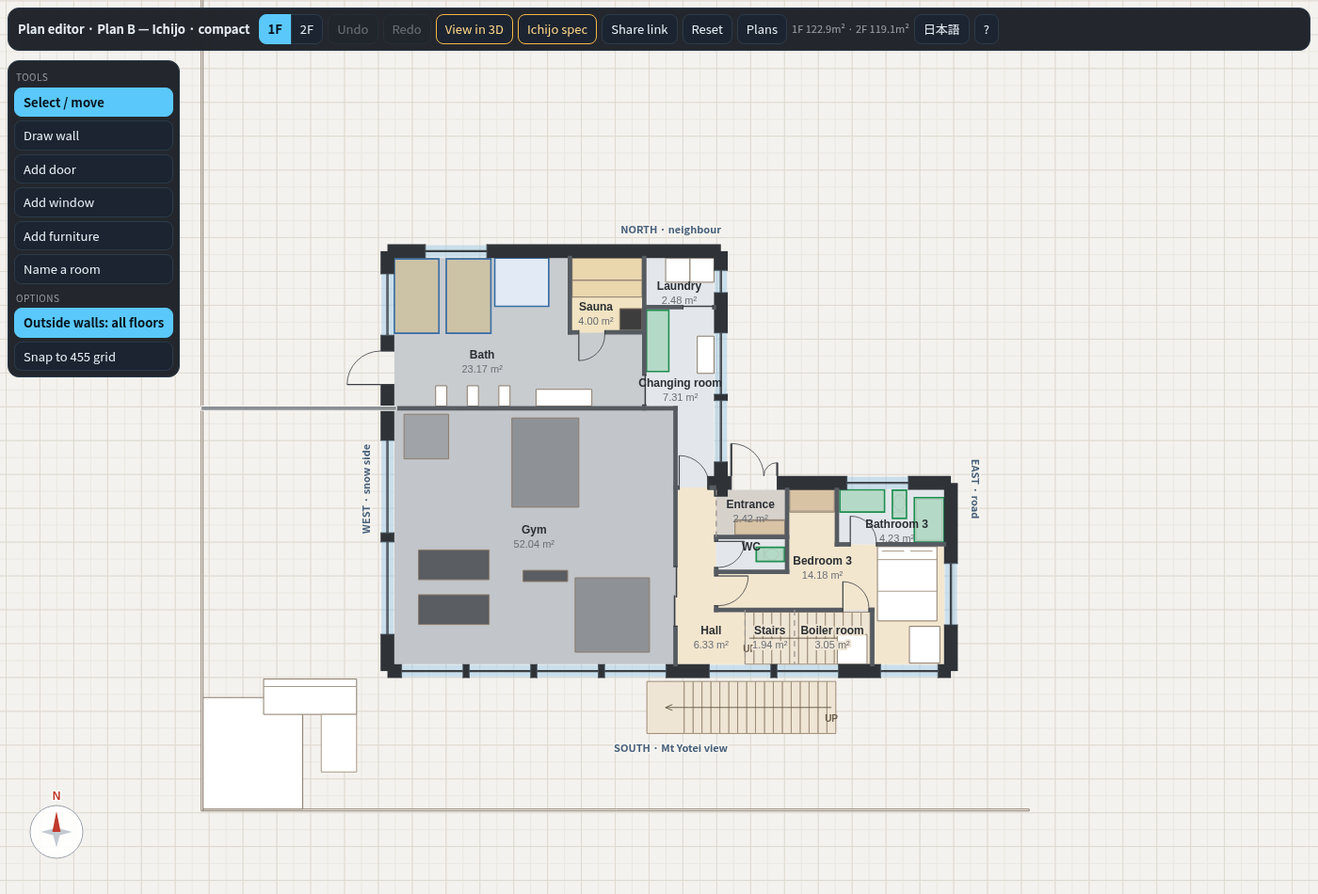
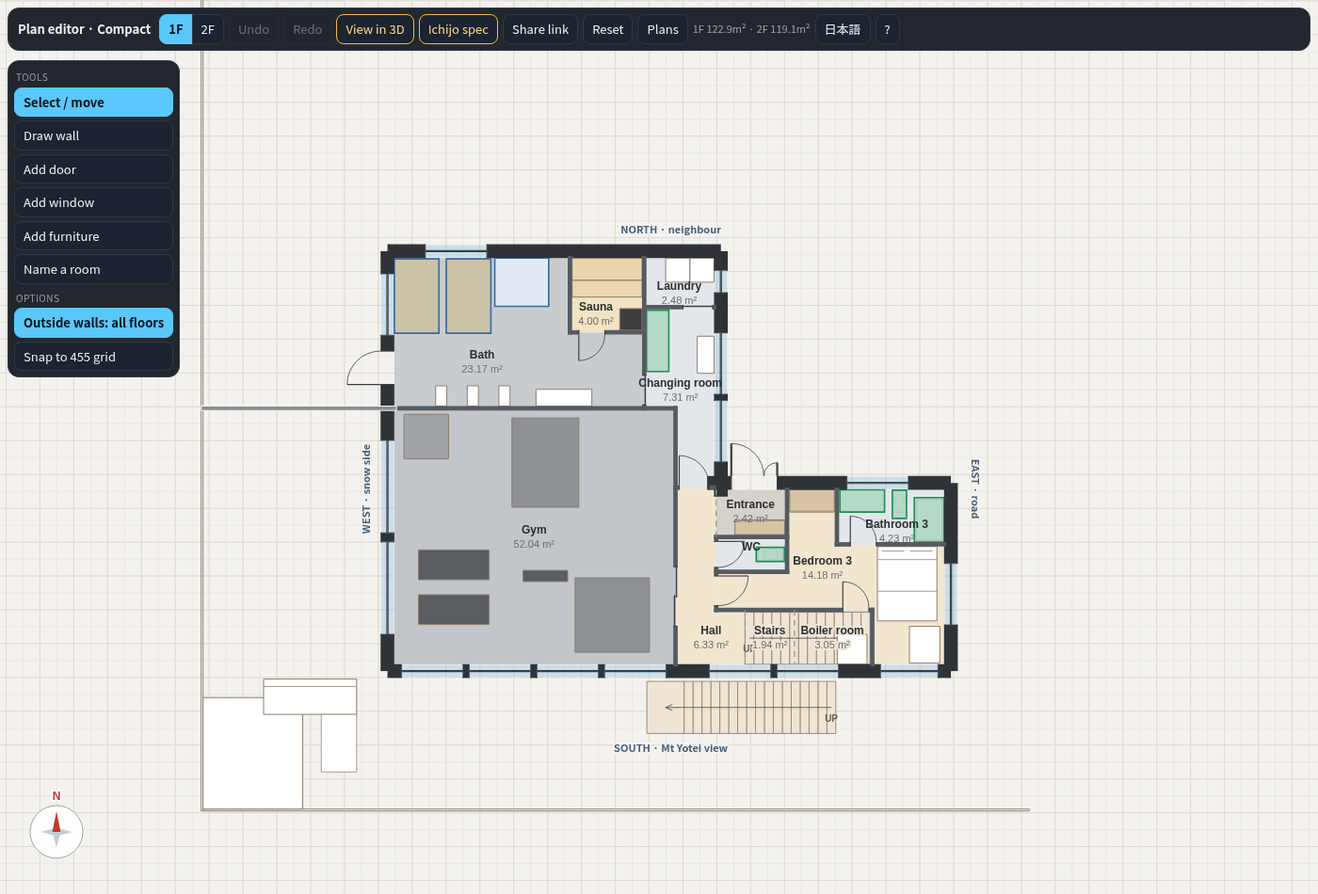
Rename plans (Compact / Full size); remove links between apps

Changed region(s): [[0.0921, 0.0, 0.6757, 0.0611], [0.7064, 0.0305, 0.7371, 0.0611]]

diff --git a/app.js b/app.js
@@ -1,8 +1,9 @@
-/* Kutchan house — interactive 3D walkthrough. ONE renderer, byte-identical in three apps:
-   the builder plans (kutchan-house-3d: houses 6, 5, 4), the Ichijo versions
-   (kutchan-house-ichijo: houses 9, 8) and Toby's own plans (kutchan-house-plan-a: Plan B =
-   house 2 in plan-b/; Plan A = house 1 is that app's older renderer at its root). The page's
-   <html data-houses="..."> lists its houses (the first = the default) and data-assets the
+/* Kutchan house — interactive 3D walkthrough. ONE renderer, byte-identical in three apps that
+   never link to each other (Toby 2026-10-13): kutchan-house-3d (house 4 = Budget plan,
+   5 = Mid tier plan, 6 = Ideal plan), kutchan-house-ichijo (8 = Compact, 9 = Full size) and
+   kutchan-house-plan-a (Plan B = house 2 in plan-b/; Plan A = house 1 is that app's older
+   renderer at its root). The page's <html data-houses="..."> lists its houses (the first = the
+   default; the switcher shows index.html's buttons in their own order) and data-assets the
    path prefix to assets/. Houses 4-9 are built from the editable ref-model-*.json plans
    through refplan.js, house 2 from plan2.json.
    Textures + HDRI + furniture models: Poly Haven (CC0); worktop marble and the
@@ -36,8 +37,8 @@ const SHIFT = 24 * Math.PI / 180;
 /* sun direction measured off the HDRI (brightest texel): az 36deg from +x
    towards +z, 28deg up. The directional light has to agree with the sky. */
 const SUN_DIR = new V(0.713, 0.473, 0.517).normalize();
-/* Which house. <html data-houses="6 5 4"> = this app's houses in switcher order, the first is
-   the default; ?house=N opens house N if this app has it, anything else opens the default.
+/* Which house. <html data-houses="6 5 4"> = this app's houses, the first is the default (the
+   switcher order is index.html's button order); ?house=N opens house N if this app has it, anything else opens the default.
    Houses that live in another app are sent there by index.html's head script before this
    module runs; it sets window.H3D_LEAVING so nothing is built while the browser leaves. */
 const _qHouse = new URLSearchParams(location.search).get('house');
@@ -81,10 +82,10 @@ const TXT = {
     title: '倶知安 住宅計画',
     h2: 'プランB', h2t: 'L字型の2階建て、2階は片流れ屋根', doc2: '倶知安 住宅計画 — トビアスの自作プラン — プランB',
     geo2: "プランB\n1階：玄関、階段ホール（北側出入口）、ジム、浴室（浴槽）、サウナ、洗面室、洗濯室、トイレ、機械室。\n2階：リビング、ダイニング、キッチン、寝室4室、バスルーム4室、廊下、外部階段への出入口。",
-    h4: "土屋 改案（予算重視案）", h4t: "10.9×7.3mの箱型2階建て＋ロフト",
-    h5: 'プランB 縮小版', h5t: "13.65×9.1mの箱型2階建て＋ロフト、長辺が眺望側",
-    origt5: 'プランB 縮小版の最初の間取りを表示（編集はそのまま残ります）',
-    h6: 'プランC', h6t: "L字型の2階建て。リビングの翼棟は3面に窓", origt6: 'プランCの最初の間取りを表示（編集はそのまま残ります）',
+    h4: '予算プラン', h4t: "10.9×7.3mの箱型2階建て＋ロフト",
+    h5: '中間プラン', h5t: "13.65×9.1mの箱型2階建て＋ロフト、長辺が眺望側",
+    origt5: '中間プランの最初の間取りを表示（編集はそのまま残ります）',
+    h6: '理想プラン', h6t: "L字型の2階建て。リビングの翼棟は3面に窓", origt6: '理想プランの最初の間取りを表示（編集はそのまま残ります）',
     edit: '間取りを編集', editt: '壁・扉・窓・家具を動かして間取りを変更（3Dにも反映されます）',
     srcEdited: '編集した間取り', srcLink: '共有リンクの間取り', origb: '元の図面を表示', origt: 'この間取りの最初の状態を表示（編集はそのまま残ります）', loft: 'ロフト',
     jumpt: '部屋へ移動', walk: '歩行', fly: '飛行', walkt: '歩行＝床の上を移動／飛行＝自由に移動',
@@ -101,10 +102,10 @@ const TXT = {
     fov: '画角', fovt: '画面の長辺方向の角度', speed: '速度', wide: '広角', narrow: '望遠', widet: '広角（90°）', narrowt: '望遠（50°）',
     hudOrbit: '周回', hudFly: '飛行', hudWalk: '歩行',
     loading: '建物を作成中…', loadingTex: (n, t) => 'テクスチャ・モデルを読み込み中… ' + n + ' / ' + t, failed: '読み込みに失敗しました：',
-    doc4: "土屋 改案（予算重視案） — 3Dウォークスルー", doc5: '倶知安 住宅計画 プランB 縮小版 — 3D', doc6: '倶知安 住宅計画 プランC — 3D',
-    geo6: "プランC\n1階：玄関、スキー/ギア室、ホール、ジム65.8m²、浴室24.8m²（ひのき浴槽2つ）とL字型のサウナ8.3m²、脱衣・休憩室、洗濯室、トイレ、機械室。\n2階：3面に窓のあるリビング、アイランドのあるダイニング・キッチン、主寝室（専用シャワー室・クローゼット付き）、寝室2（専用シャワー室付き）、寝室3、書斎2室、トイレ。",
-    geo5: "プランB 縮小版\n1階：玄関、スキー/ギア室、ホール、ジム62.1m²、浴室21.1m²（ひのき浴槽2つ）とサウナ5.0m²、脱衣・休憩室、洗濯室、トイレ、機械室。\n2階：リビング・ダイニング、アイランドのあるキッチン、主寝室と寝室2（それぞれ専用シャワー室・ウォークインクローゼット付き）、書斎2室、トイレ。\nロフト：寝室/書斎29.8m²（専用バスルーム・クローゼット付き）。",
-    geo4: "土屋 改案（予算重視案）\n1階：玄関、ジム43.0m²、浴室14.9m²（ひのき浴槽2つ）とサウナ5.0m²、脱衣・休憩室、洗濯室、トイレ、機械室。\n2階：LDK 44.0m²、主寝室（専用シャワー室付き）、書斎。\nロフト：寝室（専用シャワー室付き）、書斎。",
+    doc4: '倶知安 住宅計画 予算プラン — 3D', doc5: '倶知安 住宅計画 中間プラン — 3D', doc6: '倶知安 住宅計画 理想プラン — 3D',
+    geo6: "理想プラン\n1階：玄関、スキー/ギア室、ホール、ジム65.8m²、浴室24.8m²（ひのき浴槽2つ）とL字型のサウナ8.3m²、脱衣・休憩室、洗濯室、トイレ、機械室。\n2階：3面に窓のあるリビング、アイランドのあるダイニング・キッチン、主寝室（専用シャワー室・クローゼット付き）、寝室2（専用シャワー室付き）、寝室3、書斎2室、トイレ。",
+    geo5: "中間プラン\n1階：玄関、スキー/ギア室、ホール、ジム62.1m²、浴室21.1m²（ひのき浴槽2つ）とサウナ5.0m²、脱衣・休憩室、洗濯室、トイレ、機械室。\n2階：リビング・ダイニング、アイランドのあるキッチン、主寝室と寝室2（それぞれ専用シャワー室・ウォークインクローゼット付き）、書斎2室、トイレ。\nロフト：寝室/書斎29.8m²（専用バスルーム・クローゼット付き）。",
+    geo4: "予算プラン\n1階：玄関、ジム43.0m²、浴室14.9m²（ひのき浴槽2つ）とサウナ5.0m²、脱衣・休憩室、洗濯室、トイレ、機械室。\n2階：LDK 44.0m²、主寝室（専用シャワー室付き）、書斎。\nロフト：寝室（専用シャワー室付き）、書斎。",
     help: '<h3>操作方法</h3>'
       + '<b>キー</b> — <kbd>W</kbd><kbd>A</kbd><kbd>S</kbd><kbd>D</kbd> 前・左・後ろ・右へ移動 ・ <kbd>E</kbd>/<kbd>Q</kbd> 上の階・下の階へ（飛行モードでは上昇・下降） ・ <kbd>Shift</kbd> 走る<br>'
       + '<b>視点の向き</b> — <kbd>←</kbd><kbd>→</kbd><kbd>↑</kbd><kbd>↓</kbd>（または <kbd>J</kbd><kbd>L</kbd><kbd>I</kbd><kbd>K</kbd>）で左右・上下を見る<br>'
@@ -119,10 +120,10 @@ const TXT = {
     title: 'Kutchan house',
     h2: 'Plan B', h2t: 'L-shaped two-storey house, the 2F under one sloped roof', doc2: "Kutchan house — Toby's own plans — Plan B",
     geo2: "Plan B\n1F: entrance, stair hall with a north door, gym, bath with soaking tubs, sauna, wash room, laundry, WC, boiler room.\n2F: living, dining, kitchen, 4 bedrooms, 4 bathrooms, hall, door to the outside stair.",
-    h4: "Tsuchiya rev. — budget option", h4t: "10.9 × 7.3 m two-storey box with a loft",
-    h5: 'Plan B compact', h5t: "13.65 × 9.1 m two-storey box with a loft, long side facing the view",
-    origt5: 'Show Plan B compact as first drawn (your edits stay saved)',
-    h6: 'Plan C', h6t: "L-shaped two-storey house; the living wing has windows on three sides", origt6: 'Show Plan C as first drawn (your edits stay saved)',
+    h4: 'Budget plan', h4t: "10.9 × 7.3 m two-storey box with a loft",
+    h5: 'Mid tier plan', h5t: "13.65 × 9.1 m two-storey box with a loft, long side facing the view",
+    origt5: 'Show the Mid tier plan as first drawn (your edits stay saved)',
+    h6: 'Ideal plan', h6t: "L-shaped two-storey house; the living wing has windows on three sides", origt6: 'Show the Ideal plan as first drawn (your edits stay saved)',
     edit: 'Edit plan', editt: 'Move walls, doors, windows and furniture (the 3D follows)',
     srcEdited: 'Edited plan', srcLink: 'Shared plan', origb: 'Show original', origt: 'Show this plan as first drawn (your edits stay saved)', loft: 'Loft',
     jumpt: 'Jump to a room', walk: 'Walk', fly: 'Fly', walkt: 'Walk = stay on the floor. Fly = free movement',
@@ -139,10 +140,10 @@ const TXT = {
     fov: 'FIELD OF VIEW', fovt: "Measured across the screen's long side", speed: 'SPEED', wide: 'Wide', narrow: 'Narrow', widet: 'Wide angle (90°)', narrowt: 'Narrow / zoom (50°)',
     hudOrbit: 'orbit', hudFly: 'fly', hudWalk: 'walk',
     loading: 'building the house…', loadingTex: (n, t) => 'loading textures + models… ' + n + ' / ' + t, failed: 'failed to load: ',
-    doc4: "Tsuchiya rev. — budget option — 3D walkthrough", doc5: 'Kutchan house — Plan B compact — 3D', doc6: 'Kutchan house — Plan C — 3D',
-    geo6: "Plan C\n1F: entrance, ski / gear room, hall, gym 65.8 m², bath 24.8 m² (two hinoki tubs) with an 8.3 m² L-shaped sauna, changing + rest room, laundry, WC, boiler room.\n2F: living with windows on three sides, dining + kitchen with an island, master bedroom with an ensuite and a closet, bedroom 2 with an ensuite, bedroom 3, two dens, WC.",
-    geo5: "Plan B compact\n1F: entrance, ski / gear room, hall, gym 62.1 m², bath 21.1 m² (two hinoki tubs) with a 5.0 m² sauna, changing + rest room, laundry, WC, boiler room.\n2F: living + dining, kitchen with an island, master bedroom and bedroom 2, each with an ensuite and a walk-in closet, two dens, WC.\nLoft: bedroom / den 29.8 m² with its own bathroom and a closet.",
-    geo4: "Tsuchiya rev. — budget option\n1F: entrance, gym 43.0 m², bath 14.9 m² (two hinoki tubs) with a 5.0 m² sauna, changing + rest room, laundry, WC, boiler room.\n2F: living · dining · kitchen 44.0 m², master bedroom with an ensuite, den.\nLoft: bedroom with an ensuite, den.",
+    doc4: 'Kutchan house — Budget plan — 3D', doc5: 'Kutchan house — Mid tier plan — 3D', doc6: 'Kutchan house — Ideal plan — 3D',
+    geo6: "Ideal plan\n1F: entrance, ski / gear room, hall, gym 65.8 m², bath 24.8 m² (two hinoki tubs) with an 8.3 m² L-shaped sauna, changing + rest room, laundry, WC, boiler room.\n2F: living with windows on three sides, dining + kitchen with an island, master bedroom with an ensuite and a closet, bedroom 2 with an ensuite, bedroom 3, two dens, WC.",
+    geo5: "Mid tier plan\n1F: entrance, ski / gear room, hall, gym 62.1 m², bath 21.1 m² (two hinoki tubs) with a 5.0 m² sauna, changing + rest room, laundry, WC, boiler room.\n2F: living + dining, kitchen with an island, master bedroom and bedroom 2, each with an ensuite and a walk-in closet, two dens, WC.\nLoft: bedroom / den 29.8 m² with its own bathroom and a closet.",
+    geo4: "Budget plan\n1F: entrance, gym 43.0 m², bath 14.9 m² (two hinoki tubs) with a 5.0 m² sauna, changing + rest room, laundry, WC, boiler room.\n2F: living · dining · kitchen 44.0 m², master bedroom with an ensuite, den.\nLoft: bedroom with an ensuite, den.",
     help: '<h3>How to move</h3>'
       + '<b>Keys</b> — <kbd>W</kbd><kbd>A</kbd><kbd>S</kbd><kbd>D</kbd> walk forward / left / back / right · <kbd>E</kbd>/<kbd>Q</kbd> up / down a floor (in Fly: rise / sink) · <kbd>Shift</kbd> run<br>'
       + '<b>Pan the view</b> — <kbd>←</kbd><kbd>→</kbd><kbd>↑</kbd><kbd>↓</kbd> (or <kbd>J</kbd><kbd>L</kbd><kbd>I</kbd><kbd>K</kbd>) look left / right / up / down<br>'
@@ -157,23 +158,23 @@ const TXT = {
 /* the Ichijo houses (8, 9) */
 Object.assign(TXT.ja, {
   ich: '一条仕様', icht: '一条工務店の仕様とカタログの設備を選ぶパネル',
-  h8: 'プランB 一条版・コンパクト', h8t: "小さめのL字型の2階建て、リビング棟は片流れ屋根。寝室は2階に3室、1階に1室",
-  origt8: 'プランB 一条版・コンパクトの最初の間取りを表示（編集・選択はそのまま残ります）', doc8: '倶知安 住宅計画 プランB 一条版・コンパクト — 3D',
-  h9: 'プランB 一条版・寝室1つ下階', h9t: "L字型の2階建て、リビング棟は片流れ屋根",
-  origt9: 'プランB 一条版・寝室1つ下階の最初の間取りを表示（編集・選択はそのまま残ります）', doc9: '倶知安 住宅計画 プランB 一条版・寝室1つ下階 — 3D',
+  h8: 'コンパクト', h8t: "小さめのL字型の2階建て、リビング棟は片流れ屋根。寝室は2階に3室、1階に1室",
+  origt8: '「コンパクト」の最初の間取りを表示（編集・選択はそのまま残ります）', doc8: '倶知安 住宅計画 コンパクト — 3D',
+  h9: 'フルサイズ', h9t: "L字型の2階建て、リビング棟は片流れ屋根",
+  origt9: '「フルサイズ」の最初の間取りを表示（編集・選択はそのまま残ります）', doc9: '倶知安 住宅計画 フルサイズ — 3D',
   plans: '図面一覧', planst: 'すべての間取り図を1ページで',
-  geo8: "プランB 一条版・コンパクト\n1階：玄関、ホール、ジム52.0m²、浴室23.2m²（ひのき浴槽2つ）とサウナ4.0m²、脱衣室、洗濯室、トイレ、機械室、寝室3（14.2m²、専用バスルーム付き）。\n2階：勾配天井（最高4.75m）のリビング、ダイニング、キッチン、寝室1・2・4（11.2・11.5・13.0m²、それぞれ専用バスルーム付き、寝室2・4はウォークインクローゼット付き）。",
-  geo9: "プランB 一条版・寝室1つ下階\n1階：玄関、ホール、ジム52.1m²、浴室32.1m²（ひのき浴槽2つ）とサウナ5.5m²、脱衣・休憩室、洗濯室、トイレ、機械室、寝室3（18.4m²、ホールの向かいに専用シャワールーム）。\n2階：勾配天井（最高4.75m）のリビング、ダイニング、キッチン、寝室1・2・4（18.2・19.9・14.1m²、それぞれウォークインクローゼットと専用バスルーム付き）。",
+  geo8: "コンパクト\n1階：玄関、ホール、ジム52.0m²、浴室23.2m²（ひのき浴槽2つ）とサウナ4.0m²、脱衣室、洗濯室、トイレ、機械室、寝室3（14.2m²、専用バスルーム付き）。\n2階：勾配天井（最高4.75m）のリビング、ダイニング、キッチン、寝室1・2・4（11.2・11.5・13.0m²、それぞれ専用バスルーム付き、寝室2・4はウォークインクローゼット付き）。",
+  geo9: "フルサイズ\n1階：玄関、ホール、ジム52.1m²、浴室32.1m²（ひのき浴槽2つ）とサウナ5.5m²、脱衣・休憩室、洗濯室、トイレ、機械室、寝室3（18.4m²、ホールの向かいに専用シャワールーム）。\n2階：勾配天井（最高4.75m）のリビング、ダイニング、キッチン、寝室1・2・4（18.2・19.9・14.1m²、それぞれウォークインクローゼットと専用バスルーム付き）。",
 });
 Object.assign(TXT.en, {
   ich: 'Ichijo spec', icht: "Ichijo Komuten's rules and catalogue fittings",
-  h8: 'Plan B — Ichijo · compact', h8t: "Smaller L-shaped two-storey house with a sloped roof over the living wing; 3 bedrooms upstairs, 1 downstairs",
-  origt8: 'Show Plan B — Ichijo · compact as first drawn (your edits and choices stay saved)', doc8: 'Kutchan house — Plan B — Ichijo · compact — 3D',
-  h9: 'Plan B — Ichijo · 3 up, 1 down', h9t: "L-shaped two-storey house with a sloped roof over the living wing",
-  origt9: 'Show Plan B — Ichijo · 3 up, 1 down as first drawn (your edits and choices stay saved)', doc9: 'Kutchan house — Plan B — Ichijo · 3 up, 1 down — 3D',
+  h8: 'Compact', h8t: "Smaller L-shaped two-storey house with a sloped roof over the living wing; 3 bedrooms upstairs, 1 downstairs",
+  origt8: 'Show “Compact” as first drawn (your edits and choices stay saved)', doc8: 'Kutchan house — Compact — 3D',
+  h9: 'Full size', h9t: "L-shaped two-storey house with a sloped roof over the living wing",
+  origt9: 'Show “Full size” as first drawn (your edits and choices stay saved)', doc9: 'Kutchan house — Full size — 3D',
   plans: 'Plans', planst: 'All floor plans on one page',
-  geo8: "Plan B — Ichijo · compact\n1F: entrance, hall, gym 52.0 m², bath 23.2 m² (two hinoki tubs) with a 4.0 m² sauna, changing room, laundry, WC, boiler room, bedroom 3 (14.2 m²) with its own bathroom.\n2F: living with a sloped ceiling up to 4.75 m, dining, kitchen, bedrooms 1, 2 and 4 (11.2, 11.5 and 13.0 m²), each with its own bathroom; walk-in closets for bedrooms 2 and 4.",
-  geo9: "Plan B — Ichijo · 3 up, 1 down\n1F: entrance, hall, gym 52.1 m², bath 32.1 m² (two hinoki tubs) with a 5.5 m² sauna, changing + rest room, laundry, WC, boiler room, bedroom 3 (18.4 m²) with its own shower room across the hall.\n2F: living with a sloped ceiling up to 4.75 m, dining, kitchen, bedrooms 1, 2 and 4 (18.2, 19.9 and 14.1 m²), each with a walk-in closet and its own bathroom.",
+  geo8: "Compact\n1F: entrance, hall, gym 52.0 m², bath 23.2 m² (two hinoki tubs) with a 4.0 m² sauna, changing room, laundry, WC, boiler room, bedroom 3 (14.2 m²) with its own bathroom.\n2F: living with a sloped ceiling up to 4.75 m, dining, kitchen, bedrooms 1, 2 and 4 (11.2, 11.5 and 13.0 m²), each with its own bathroom; walk-in closets for bedrooms 2 and 4.",
+  geo9: "Full size\n1F: entrance, hall, gym 52.1 m², bath 32.1 m² (two hinoki tubs) with a 5.5 m² sauna, changing + rest room, laundry, WC, boiler room, bedroom 3 (18.4 m²) with its own shower room across the hall.\n2F: living with a sloped ceiling up to 4.75 m, dining, kitchen, bedrooms 1, 2 and 4 (18.2, 19.9 and 14.1 m²), each with a walk-in closet and its own bathroom.",
 });
 const T = (k) => (TXT[LANG][k] !== undefined ? TXT[LANG][k] : TXT.en[k]);
 /* preset + room-label names: English is the key (goView tests 'Doll'), Japanese looked up */

diff --git a/edit.js b/edit.js
@@ -1,15 +1,15 @@
 /* Plan editor for the ref-model plans (the refplan.js format). Drag walls,
    doors, windows and furniture; the 3D walkthrough builds from the same model,
    saved in this browser or carried in a share link (#m=...).
-   ?plan=b = the revised Tsuchiya plan (ref-model-b.json, 3D: index.html?house=4),
-   ?plan=c = Plan B compact (ref-model-c.json, 3D: index.html?house=5) and
-   ?plan=d = Plan C, L-shaped (ref-model-d.json, 3D: index.html?house=6), each
-   saved under its own key. ?plan=f = Plan B — Ichijo · compact (house 8) and
-   ?plan=g = Plan B — Ichijo · 3 up, 1 down (house 9): PLANS[x].ichijo =
-   the Ichijo spec panel + catalogue fittings (ichijo.js).
-   This file is byte-identical in two apps: kutchan-house-3d (<html data-plans="d c b">) and
-   kutchan-house-ichijo (data-plans="g f"); the first plan listed is the default, any other
-   ?plan opens it (edit.html's head script sends plans that live in the other app there).
+   ?plan=b = Budget plan (ref-model-b.json, 3D: index.html?house=4),
+   ?plan=c = Mid tier plan (ref-model-c.json, 3D: index.html?house=5) and
+   ?plan=d = Ideal plan, L-shaped (ref-model-d.json, 3D: index.html?house=6), each
+   saved under its own key. ?plan=f = Compact (house 8) and ?plan=g = Full size (house 9):
+   PLANS[x].ichijo = the Ichijo spec panel + catalogue fittings (ichijo.js).
+   This file is byte-identical in two apps that never link to each other: kutchan-house-3d
+   (<html data-plans="d c b">) and kutchan-house-ichijo (data-plans="g f"); the first plan
+   listed is the default, any other ?plan opens it (edit.html's head script invisibly sends old
+   links to plans that live in the other app there).
    v20: a model's "carport" (plan d, outside the house) is drawn on the 1F as a
    dashed outline with its posts, and counted in the fit-to-screen.
    v21: a compass on every plan (rose in a corner + the four sides of the drawing
@@ -34,7 +34,7 @@ const _qPlan = (new URLSearchParams(location.search).get('plan') || '').toLowerC
 const PLAN = APP_PLANS.includes(_qPlan) ? _qPlan : APP_PLANS[0];
 const REF = PLANS[PLAN];
 try { localStorage.removeItem('h3dRefModel'); } catch (e) { /* private mode */ }   /* v23: plan a's saved copy */
-const PE = !!REF.ichijo;            /* plans f, g = the Plan B — Ichijo variants: the Ichijo spec panel + catalogue fittings (ichijo.js) */
+const PE = !!REF.ichijo;            /* plans f, g (Compact, Full size): the Ichijo spec panel + catalogue fittings (ichijo.js) */
 
 /* ------------------------------------------------------------------ text */
 const TX = {
@@ -145,46 +145,46 @@ function planHelp(lang, reset, desc, twoFloors) {
 const FIN = { en: { fGranite: 'Dark stone (bath)', fHinoki: 'Hinoki (sauna)', fRubber: 'Rubber (gym)' }, ja: { fGranite: '黒い石調タイル（浴室）', fHinoki: 'ひのき（サウナ）', fRubber: 'ゴム床（ジム）' } };
 const ICHS = { en: { ich: 'Ichijo spec', icht: "Ichijo Komuten's rules and catalogue fittings" }, ja: { ich: '一条仕様', icht: '一条工務店の仕様とカタログの設備' } };
 const DESC = {
-  b: { en: "Tsuchiya rev. — budget option<br>1F: entrance, gym 43.0 m², bath 14.9 m² (two hinoki tubs) with a 5.0 m² sauna, changing + rest room, laundry, WC, boiler room.<br>2F: living · dining · kitchen 44.0 m², master bedroom with an ensuite, den.<br>Loft: bedroom with an ensuite, den.",
-    ja: "土屋 改案（予算重視案）<br>1階：玄関、ジム43.0m²、浴室14.9m²（ひのき浴槽2つ）とサウナ5.0m²、脱衣・休憩室、洗濯室、トイレ、機械室。<br>2階：LDK 44.0m²、主寝室（専用シャワー室付き）、書斎。<br>ロフト：寝室（専用シャワー室付き）、書斎。" },
-  c: { en: "Plan B compact<br>1F: entrance, ski / gear room, hall, gym 62.1 m², bath 21.1 m² (two hinoki tubs) with a 5.0 m² sauna, changing + rest room, laundry, WC, boiler room.<br>2F: living + dining, kitchen with an island, master bedroom and bedroom 2, each with an ensuite and a walk-in closet, two dens, WC.<br>Loft: bedroom / den 29.8 m² with its own bathroom and a closet.",
-    ja: "プランB 縮小版<br>1階：玄関、スキー/ギア室、ホール、ジム62.1m²、浴室21.1m²（ひのき浴槽2つ）とサウナ5.0m²、脱衣・休憩室、洗濯室、トイレ、機械室。<br>2階：リビング・ダイニング、アイランドのあるキッチン、主寝室と寝室2（それぞれ専用シャワー室・ウォークインクローゼット付き）、書斎2室、トイレ。<br>ロフト：寝室/書斎29.8m²（専用バスルーム・クローゼット付き）。" },
-  d: { en: "Plan C<br>1F: entrance, ski / gear room, hall, gym 65.8 m², bath 24.8 m² (two hinoki tubs) with an 8.3 m² L-shaped sauna, changing + rest room, laundry, WC, boiler room.<br>2F: living with windows on three sides, dining + kitchen with an island, master bedroom with an ensuite and a closet, bedroom 2 with an ensuite, bedroom 3, two dens, WC.",
-    ja: "プランC<br>1階：玄関、スキー/ギア室、ホール、ジム65.8m²、浴室24.8m²（ひのき浴槽2つ）とL字型のサウナ8.3m²、脱衣・休憩室、洗濯室、トイレ、機械室。<br>2階：3面に窓のあるリビング、アイランドのあるダイニング・キッチン、主寝室（専用シャワー室・クローゼット付き）、寝室2（専用シャワー室付き）、寝室3、書斎2室、トイレ。" },
-  f: { en: "Plan B — Ichijo · compact<br>1F: entrance, hall, gym 52.0 m², bath 23.2 m² (two hinoki tubs) with a 4.0 m² sauna, changing room, laundry, WC, boiler room, bedroom 3 (14.2 m²) with its own bathroom.<br>2F: living with a sloped ceiling up to 4.75 m, dining, kitchen, bedrooms 1, 2 and 4 (11.2, 11.5 and 13.0 m²), each with its own bathroom; walk-in closets for bedrooms 2 and 4.",
-    ja: "プランB 一条版・コンパクト<br>1階：玄関、ホール、ジム52.0m²、浴室23.2m²（ひのき浴槽2つ）とサウナ4.0m²、脱衣室、洗濯室、トイレ、機械室、寝室3（14.2m²、専用バスルーム付き）。<br>2階：勾配天井（最高4.75m）のリビング、ダイニング、キッチン、寝室1・2・4（11.2・11.5・13.0m²、それぞれ専用バスルーム付き、寝室2・4はウォークインクローゼット付き）。" },
-  g: { en: "Plan B — Ichijo · 3 up, 1 down<br>1F: entrance, hall, gym 52.1 m², bath 32.1 m² (two hinoki tubs) with a 5.5 m² sauna, changing + rest room, laundry, WC, boiler room, bedroom 3 (18.4 m²) with its own shower room across the hall.<br>2F: living with a sloped ceiling up to 4.75 m, dining, kitchen, bedrooms 1, 2 and 4 (18.2, 19.9 and 14.1 m²), each with a walk-in closet and its own bathroom.",
-    ja: "プランB 一条版・寝室1つ下階<br>1階：玄関、ホール、ジム52.1m²、浴室32.1m²（ひのき浴槽2つ）とサウナ5.5m²、脱衣・休憩室、洗濯室、トイレ、機械室、寝室3（18.4m²、ホールの向かいに専用シャワールーム）。<br>2階：勾配天井（最高4.75m）のリビング、ダイニング、キッチン、寝室1・2・4（18.2・19.9・14.1m²、それぞれウォークインクローゼットと専用バスルーム付き）。" },
+  b: { en: "Budget plan<br>1F: entrance, gym 43.0 m², bath 14.9 m² (two hinoki tubs) with a 5.0 m² sauna, changing + rest room, laundry, WC, boiler room.<br>2F: living · dining · kitchen 44.0 m², master bedroom with an ensuite, den.<br>Loft: bedroom with an ensuite, den.",
+    ja: "予算プラン<br>1階：玄関、ジム43.0m²、浴室14.9m²（ひのき浴槽2つ）とサウナ5.0m²、脱衣・休憩室、洗濯室、トイレ、機械室。<br>2階：LDK 44.0m²、主寝室（専用シャワー室付き）、書斎。<br>ロフト：寝室（専用シャワー室付き）、書斎。" },
+  c: { en: "Mid tier plan<br>1F: entrance, ski / gear room, hall, gym 62.1 m², bath 21.1 m² (two hinoki tubs) with a 5.0 m² sauna, changing + rest room, laundry, WC, boiler room.<br>2F: living + dining, kitchen with an island, master bedroom and bedroom 2, each with an ensuite and a walk-in closet, two dens, WC.<br>Loft: bedroom / den 29.8 m² with its own bathroom and a closet.",
+    ja: "中間プラン<br>1階：玄関、スキー/ギア室、ホール、ジム62.1m²、浴室21.1m²（ひのき浴槽2つ）とサウナ5.0m²、脱衣・休憩室、洗濯室、トイレ、機械室。<br>2階：リビング・ダイニング、アイランドのあるキッチン、主寝室と寝室2（それぞれ専用シャワー室・ウォークインクローゼット付き）、書斎2室、トイレ。<br>ロフト：寝室/書斎29.8m²（専用バスルーム・クローゼット付き）。" },
+  d: { en: "Ideal plan<br>1F: entrance, ski / gear room, hall, gym 65.8 m², bath 24.8 m² (two hinoki tubs) with an 8.3 m² L-shaped sauna, changing + rest room, laundry, WC, boiler room.<br>2F: living with windows on three sides, dining + kitchen with an island, master bedroom with an ensuite and a closet, bedroom 2 with an ensuite, bedroom 3, two dens, WC.",
+    ja: "理想プラン<br>1階：玄関、スキー/ギア室、ホール、ジム65.8m²、浴室24.8m²（ひのき浴槽2つ）とL字型のサウナ8.3m²、脱衣・休憩室、洗濯室、トイレ、機械室。<br>2階：3面に窓のあるリビング、アイランドのあるダイニング・キッチン、主寝室（専用シャワー室・クローゼット付き）、寝室2（専用シャワー室付き）、寝室3、書斎2室、トイレ。" },
+  f: { en: "Compact<br>1F: entrance, hall, gym 52.0 m², bath 23.2 m² (two hinoki tubs) with a 4.0 m² sauna, changing room, laundry, WC, boiler room, bedroom 3 (14.2 m²) with its own bathroom.<br>2F: living with a sloped ceiling up to 4.75 m, dining, kitchen, bedrooms 1, 2 and 4 (11.2, 11.5 and 13.0 m²), each with its own bathroom; walk-in closets for bedrooms 2 and 4.",
+    ja: "コンパクト<br>1階：玄関、ホール、ジム52.0m²、浴室23.2m²（ひのき浴槽2つ）とサウナ4.0m²、脱衣室、洗濯室、トイレ、機械室、寝室3（14.2m²、専用バスルーム付き）。<br>2階：勾配天井（最高4.75m）のリビング、ダイニング、キッチン、寝室1・2・4（11.2・11.5・13.0m²、それぞれ専用バスルーム付き、寝室2・4はウォークインクローゼット付き）。" },
+  g: { en: "Full size<br>1F: entrance, hall, gym 52.1 m², bath 32.1 m² (two hinoki tubs) with a 5.5 m² sauna, changing + rest room, laundry, WC, boiler room, bedroom 3 (18.4 m²) with its own shower room across the hall.<br>2F: living with a sloped ceiling up to 4.75 m, dining, kitchen, bedrooms 1, 2 and 4 (18.2, 19.9 and 14.1 m²), each with a walk-in closet and its own bathroom.",
+    ja: "フルサイズ<br>1階：玄関、ホール、ジム52.1m²、浴室32.1m²（ひのき浴槽2つ）とサウナ5.5m²、脱衣・休憩室、洗濯室、トイレ、機械室、寝室3（18.4m²、ホールの向かいに専用シャワールーム）。<br>2階：勾配天井（最高4.75m）のリビング、ダイニング、キッチン、寝室1・2・4（18.2・19.9・14.1m²、それぞれウォークインクローゼットと専用バスルーム付き）。" },
 };
 const TXB = {
-  en: Object.assign({ title: "Plan editor · Tsuchiya rev. — budget option", resetQ: "Throw away your changes and go back to the revised plan as first drawn?",
-    help: planHelp('en', "<b>Reset</b> goes back to the revised plan as first drawn.", DESC.b.en, false) }, FIN.en),
-  ja: Object.assign({ title: "間取り編集・土屋 改案（予算重視案）", resetQ: "変更をすべて破棄して、改案の最初の間取りに戻しますか？",
-    help: planHelp('ja', "<b>元の図面に戻す</b>で改案の最初の間取りに戻ります。", DESC.b.ja, false) }, FIN.ja),
+  en: Object.assign({ title: "Plan editor · Budget plan", resetQ: "Throw away your changes and go back to the Budget plan as first drawn?",
+    help: planHelp('en', "<b>Reset</b> goes back to the Budget plan as first drawn.", DESC.b.en, false) }, FIN.en),
+  ja: Object.assign({ title: "間取り編集・予算プラン", resetQ: "変更をすべて破棄して、予算プランの最初の間取りに戻しますか？",
+    help: planHelp('ja', "<b>元の図面に戻す</b>で予算プランの最初の間取りに戻ります。", DESC.b.ja, false) }, FIN.ja),
 };
 const TXC = {
-  en: Object.assign({ title: "Plan editor · Plan B compact", resetQ: "Throw away your changes and go back to Plan B compact as first drawn?",
-    help: planHelp('en', "<b>Reset</b> goes back to Plan B compact as first drawn.", DESC.c.en, false) }, FIN.en),
-  ja: Object.assign({ title: "間取り編集・プランB 縮小版", resetQ: "変更をすべて破棄して、プランB 縮小版の最初の間取りに戻しますか？",
-    help: planHelp('ja', "<b>元の図面に戻す</b>でプランB 縮小版の最初の間取りに戻ります。", DESC.c.ja, false) }, FIN.ja),
+  en: Object.assign({ title: "Plan editor · Mid tier plan", resetQ: "Throw away your changes and go back to the Mid tier plan as first drawn?",
+    help: planHelp('en', "<b>Reset</b> goes back to the Mid tier plan as first drawn.", DESC.c.en, false) }, FIN.en),
+  ja: Object.assign({ title: "間取り編集・中間プラン", resetQ: "変更をすべて破棄して、中間プランの最初の間取りに戻しますか？",
+    help: planHelp('ja', "<b>元の図面に戻す</b>で中間プランの最初の間取りに戻ります。", DESC.c.ja, false) }, FIN.ja),
 };
 const TXD = {
-  en: Object.assign({ title: "Plan editor · Plan C", resetQ: "Throw away your changes and go back to Plan C as first drawn?",
-    help: planHelp('en', "<b>Reset</b> goes back to Plan C as first drawn.", DESC.d.en, true) }, FIN.en),
-  ja: Object.assign({ title: "間取り編集・プランC", resetQ: "変更をすべて破棄して、プランCの最初の間取りに戻しますか？",
-    help: planHelp('ja', "<b>元の図面に戻す</b>でプランCの最初の間取りに戻ります。", DESC.d.ja, true) }, FIN.ja),
+  en: Object.assign({ title: "Plan editor · Ideal plan", resetQ: "Throw away your changes and go back to the Ideal plan as first drawn?",
+    help: planHelp('en', "<b>Reset</b> goes back to the Ideal plan as first drawn.", DESC.d.en, true) }, FIN.en),
+  ja: Object.assign({ title: "間取り編集・理想プラン", resetQ: "変更をすべて破棄して、理想プランの最初の間取りに戻しますか？",
+    help: planHelp('ja', "<b>元の図面に戻す</b>で理想プランの最初の間取りに戻ります。", DESC.d.ja, true) }, FIN.ja),
 };
 const TXF = {
-  en: Object.assign({ title: "Plan editor · Plan B — Ichijo · compact", resetQ: "Throw away your changes (walls and catalogue choices) and go back to Plan B — Ichijo · compact as first drawn?",
-    help: planHelp('en', "<b>Reset</b> goes back to Plan B — Ichijo · compact as first drawn.", DESC.f.en, true) }, FIN.en, ICHS.en),
-  ja: Object.assign({ title: "間取り編集・プランB 一条版・コンパクト", resetQ: "変更（壁・設備の選択）をすべて破棄して、プランB 一条版・コンパクトの最初の間取りに戻しますか？",
-    help: planHelp('ja', "<b>元の図面に戻す</b>でプランB 一条版・コンパクトの最初の間取りに戻ります。", DESC.f.ja, true) }, FIN.ja, ICHS.ja),
+  en: Object.assign({ title: "Plan editor · Compact", resetQ: "Throw away your changes (walls and catalogue choices) and go back to “Compact” as first drawn?",
+    help: planHelp('en', "<b>Reset</b> goes back to “Compact” as first drawn.", DESC.f.en, true) }, FIN.en, ICHS.en),
+  ja: Object.assign({ title: "間取り編集・コンパクト", resetQ: "変更（壁・設備の選択）をすべて破棄して、「コンパクト」の最初の間取りに戻しますか？",
+    help: planHelp('ja', "<b>元の図面に戻す</b>で「コンパクト」の最初の間取りに戻ります。", DESC.f.ja, true) }, FIN.ja, ICHS.ja),
 };
 const TXG = {
-  en: Object.assign({ title: "Plan editor · Plan B — Ichijo · 3 up, 1 down", resetQ: "Throw away your changes (walls and catalogue choices) and go back to Plan B — Ichijo · 3 up, 1 down as first drawn?",
-    help: planHelp('en', "<b>Reset</b> goes back to Plan B — Ichijo · 3 up, 1 down as first drawn.", DESC.g.en, true) }, FIN.en, ICHS.en),
-  ja: Object.assign({ title: "間取り編集・プランB 一条版・寝室1つ下階", resetQ: "変更（壁・設備の選択）をすべて破棄して、プランB 一条版・寝室1つ下階の最初の間取りに戻しますか？",
-    help: planHelp('ja', "<b>元の図面に戻す</b>でプランB 一条版・寝室1つ下階の最初の間取りに戻ります。", DESC.g.ja, true) }, FIN.ja, ICHS.ja),
+  en: Object.assign({ title: "Plan editor · Full size", resetQ: "Throw away your changes (walls and catalogue choices) and go back to “Full size” as first drawn?",
+    help: planHelp('en', "<b>Reset</b> goes back to “Full size” as first drawn.", DESC.g.en, true) }, FIN.en, ICHS.en),
+  ja: Object.assign({ title: "間取り編集・フルサイズ", resetQ: "変更（壁・設備の選択）をすべて破棄して、「フルサイズ」の最初の間取りに戻しますか？",
+    help: planHelp('ja', "<b>元の図面に戻す</b>で「フルサイズ」の最初の間取りに戻ります。", DESC.g.ja, true) }, FIN.ja, ICHS.ja),
 };
 const TXP = { b: TXB, c: TXC, d: TXD, f: TXF, g: TXG };
 let LANG = new URLSearchParams(location.search).get('lang') || localStorage.getItem('h3dEditLang') || 'en';

diff --git a/plans.html b/plans.html
@@ -19,10 +19,6 @@
   .lang button:first-child{border-radius:8px 0 0 8px;margin-left:0}
   .lang button:last-child{border-radius:0 8px 8px 0}
   .lang button.on{background:#5ac8fa;color:#04121c;border-color:#5ac8fa;font-weight:700}
-  .apps{margin-top:8px;font-size:13px;color:#9fb0c0}
-  .apps a{color:#5ac8fa;text-decoration:none}
-  .apps a:hover{text-decoration:underline}
-  .apps b{color:#e8eef5;font-weight:600}
   main{max-width:1500px;margin:0 auto;padding:6px 16px 40px}
   section{background:#fff;border:1px solid var(--bd);border-radius:12px;margin:18px 0;padding:16px 18px}
   h2{margin:0;font-size:19px}
@@ -45,29 +41,10 @@
 <header>
   <div class="bar"><h1><span class="en">Kutchan house — Ichijo versions</span><span class="ja" lang="ja">倶知安 住宅計画 — 一条工務店版</span></h1>
   <span class="lang"><button type="button" data-l="en">EN</button><button type="button" data-l="ja">日本語</button></span></div>
-  <div class="apps"><a href="https://boinkyai.github.io/kutchan-house-3d/plans.html"><span class="en">Builder plans</span><span class="ja" lang="ja">建築会社向けプラン</span></a> · <b><span class="en">Ichijo versions</span><span class="ja" lang="ja">一条工務店版</span></b> · <a href="https://boinkyai.github.io/kutchan-house-plan-a/"><span class="en">Toby's own plans</span><span class="ja" lang="ja">トビアスの自作プラン</span></a></div>
 </header>
 <main>
-<section id="plan-g">
-  <h2><span class="en">Plan B — Ichijo · 3 up, 1 down</span><span class="ja" lang="ja">プランB 一条版・寝室1つ下階</span></h2>
-  <p class="what"><span class="en">L-shaped two-storey house with a sloped roof over the living wing.</span><span class="ja" lang="ja">L字型の2階建て、リビング棟は片流れ屋根。</span></p>
-  <div class="links"><a href="index.html?house=9">3D</a><a href="edit.html?plan=g"><span class="en">Edit plan</span><span class="ja" lang="ja">間取りを編集</span></a></div>
-  <dl>
-    <dt><span class="en">Floor area</span><span class="ja" lang="ja">延床面積</span></dt><dd><span class="en">289 m² ≈ 87 tsubo</span><span class="ja" lang="ja">289 m²（約87坪）</span><br><small><span class="en">1F 146.4 · 2F 142.5 m²</span><span class="ja" lang="ja">1階 146.4・2階 142.5 m²</span></small></dd>
-    <dt><span class="en">Bedrooms</span><span class="ja" lang="ja">寝室</span></dt><dd><span class="en">4, each with its own bathroom</span><span class="ja" lang="ja">4室（すべて専用バスルーム付き）</span></dd>
-    <dt><span class="en">Gym</span><span class="ja" lang="ja">ジム</span></dt><dd><span class="en">52.1 m²</span><span class="ja" lang="ja">52.1 m²</span></dd>
-    <dt><span class="en">Bath + sauna</span><span class="ja" lang="ja">浴室＋サウナ</span></dt><dd><span class="en">32.1 + 5.5 m²</span><span class="ja" lang="ja">32.1＋5.5 m²</span></dd>
-    <dt><span class="en">Living · dining · kitchen</span><span class="ja" lang="ja">LDK</span></dt><dd><span class="en">47.6 m²</span><span class="ja" lang="ja">47.6 m²</span></dd>
-    <dt><span class="en">Roof height</span><span class="ja" lang="ja">最高高さ</span></dt><dd><span class="en">8.9 m above ground</span><span class="ja" lang="ja">地面から8.9 m</span></dd>
-    <dt><span class="en">Front door</span><span class="ja" lang="ja">玄関ドア</span></dt><dd><span class="en">parent-child, 1.24 × 2.33 m</span><span class="ja" lang="ja">親子ドア 1.24×2.33m</span></dd>
-  </dl>
-  <div class="floors">
-    <figure><a href="plans-img/g_1F.png?v=24"><img src="plans-img/g_1F.png?v=24" alt="Plan B — Ichijo · 3 up, 1 down, 1F" width="1400" height="950" loading="lazy"></a><figcaption><span class="en">1F</span><span class="ja" lang="ja">1階</span></figcaption></figure>
-    <figure><a href="plans-img/g_2F.png?v=24"><img src="plans-img/g_2F.png?v=24" alt="Plan B — Ichijo · 3 up, 1 down, 2F" width="1400" height="950" loading="lazy"></a><figcaption><span class="en">2F</span><span class="ja" lang="ja">2階</span></figcaption></figure>
-  </div>
-</section>
 <section id="plan-f">
-  <h2><span class="en">Plan B — Ichijo · compact</span><span class="ja" lang="ja">プランB 一条版・コンパクト</span></h2>
+  <h2><span class="en">Compact</span><span class="ja" lang="ja">コンパクト</span></h2>
   <p class="what"><span class="en">Smaller L-shaped two-storey house with a sloped roof over the living wing; 3 bedrooms upstairs, 1 downstairs.</span><span class="ja" lang="ja">小さめのL字型の2階建て、リビング棟は片流れ屋根。寝室は2階に3室、1階に1室。</span></p>
   <div class="links"><a href="index.html?house=8">3D</a><a href="edit.html?plan=f"><span class="en">Edit plan</span><span class="ja" lang="ja">間取りを編集</span></a></div>
   <dl>
@@ -80,8 +57,26 @@
     <dt><span class="en">Front door</span><span class="ja" lang="ja">玄関ドア</span></dt><dd><span class="en">parent-child, 1.24 × 2.33 m</span><span class="ja" lang="ja">親子ドア 1.24×2.33m</span></dd>
   </dl>
   <div class="floors">
-    <figure><a href="plans-img/f_1F.png?v=24"><img src="plans-img/f_1F.png?v=24" alt="Plan B — Ichijo · compact, 1F" width="1400" height="950" loading="lazy"></a><figcaption><span class="en">1F</span><span class="ja" lang="ja">1階</span></figcaption></figure>
-    <figure><a href="plans-img/f_2F.png?v=24"><img src="plans-img/f_2F.png?v=24" alt="Plan B — Ichijo · compact, 2F" width="1400" height="950" loading="lazy"></a><figcaption><span class="en">2F</span><span class="ja" lang="ja">2階</span></figcaption></figure>
+    <figure><a href="plans-img/f_1F.png?v=25"><img src="plans-img/f_1F.png?v=25" alt="Compact, 1F" width="1400" height="950" loading="lazy"></a><figcaption><span class="en">1F</span><span class="ja" lang="ja">1階</span></figcaption></figure>
+    <figure><a href="plans-img/f_2F.png?v=25"><img src="plans-img/f_2F.png?v=25" alt="Compact, 2F" width="1400" height="950" loading="lazy"></a><figcaption><span class="en">2F</span><span class="ja" lang="ja">2階</span></figcaption></figure>
+  </div>
+</section>
+<section id="plan-g">
+  <h2><span class="en">Full size</span><span class="ja" lang="ja">フルサイズ</span></h2>
+  <p class="what"><span class="en">L-shaped two-storey house with a sloped roof over the living wing.</span><span class="ja" lang="ja">L字型の2階建て、リビング棟は片流れ屋根。</span></p>
+  <div class="links"><a href="index.html?house=9">3D</a><a href="edit.html?plan=g"><span class="en">Edit plan</span><span class="ja" lang="ja">間取りを編集</span></a></div>
+  <dl>
+    <dt><span class="en">Floor area</span><span class="ja" lang="ja">延床面積</span></dt><dd><span class="en">289 m² ≈ 87 tsubo</span><span class="ja" lang="ja">289 m²（約87坪）</span><br><small><span class="en">1F 146.4 · 2F 142.5 m²</span><span class="ja" lang="ja">1階 146.4・2階 142.5 m²</span></small></dd>
+    <dt><span class="en">Bedrooms</span><span class="ja" lang="ja">寝室</span></dt><dd><span class="en">4, each with its own bathroom</span><span class="ja" lang="ja">4室（すべて専用バスルーム付き）</span></dd>
+    <dt><span class="en">Gym</span><span class="ja" lang="ja">ジム</span></dt><dd><span class="en">52.1 m²</span><span class="ja" lang="ja">52.1 m²</span></dd>
+    <dt><span class="en">Bath + sauna</span><span class="ja" lang="ja">浴室＋サウナ</span></dt><dd><span class="en">32.1 + 5.5 m²</span><span class="ja" lang="ja">32.1＋5.5 m²</span></dd>
+    <dt><span class="en">Living · dining · kitchen</span><span class="ja" lang="ja">LDK</span></dt><dd><span class="en">47.6 m²</span><span class="ja" lang="ja">47.6 m²</span></dd>
+    <dt><span class="en">Roof height</span><span class="ja" lang="ja">最高高さ</span></dt><dd><span class="en">8.9 m above ground</span><span class="ja" lang="ja">地面から8.9 m</span></dd>
+    <dt><span class="en">Front door</span><span class="ja" lang="ja">玄関ドア</span></dt><dd><span class="en">parent-child, 1.24 × 2.33 m</span><span class="ja" lang="ja">親子ドア 1.24×2.33m</span></dd>
+  </dl>
+  <div class="floors">
+    <figure><a href="plans-img/g_1F.png?v=25"><img src="plans-img/g_1F.png?v=25" alt="Full size, 1F" width="1400" height="950" loading="lazy"></a><figcaption><span class="en">1F</span><span class="ja" lang="ja">1階</span></figcaption></figure>
+    <figure><a href="plans-img/g_2F.png?v=25"><img src="plans-img/g_2F.png?v=25" alt="Full size, 2F" width="1400" height="950" loading="lazy"></a><figcaption><span class="en">2F</span><span class="ja" lang="ja">2階</span></figcaption></figure>
   </div>
 </section>
 </main>

diff --git a/index.html b/index.html
@@ -42,10 +42,6 @@
   #load{position:fixed;inset:0;display:flex;align-items:center;justify-content:center;background:#0b0f14;z-index:30;flex-direction:column;gap:10px}
   .sp{width:26px;height:26px;border:3px solid #223;border-top-color:var(--ac);border-radius:50%;animation:s 1s linear infinite}
   @keyframes s{to{transform:rotate(360deg)}}
-  #top .apps{flex-basis:100%;font-size:11px;opacity:.8}
-  #top .apps a{color:var(--ac);text-decoration:none}
-  #top .apps a:hover{text-decoration:underline}
-  #top .apps b{font-weight:600}
   .seg{display:inline-flex}
   .seg button{border-radius:0;margin-left:-1px}
   .seg button:first-child{border-radius:8px 0 0 8px;margin-left:0}
@@ -67,7 +63,7 @@
 
 <div id="top" class="panel">
   <span class="t" data-en="Kutchan house — Ichijo versions" data-ja="倶知安 住宅計画 — 一条工務店版">倶知安 住宅計画 — 一条工務店版</span>
-  <span class="seg"><button id="bH9" data-i18n="h9" data-i18n-title="h9t">プランB 一条版・寝室1つ下階</button><button id="bH8" data-i18n="h8" data-i18n-title="h8t">プランB 一条版・コンパクト</button></span>
+  <span class="seg"><button id="bH8" data-i18n="h8" data-i18n-title="h8t">コンパクト</button><button id="bH9" data-i18n="h9" data-i18n-title="h9t">フルサイズ</button></span>
   <button id="bEdit" class="ac" data-i18n="edit" data-i18n-title="editt" hidden>間取りを編集</button>
   <button id="bPlans" data-i18n="plans" data-i18n-title="planst">図面一覧</button>
   <span id="srcBadge" class="badge" hidden></span>
@@ -82,7 +78,6 @@
   <button id="bQual" data-i18n-title="qualt">画質：高</button>
   <button id="bLang" data-i18n="lang" data-i18n-title="langt">English</button>
   <button id="bHelp">?</button>
-  <div class="apps"><a href="https://boinkyai.github.io/kutchan-house-3d/" data-en="Builder plans" data-ja="建築会社向けプラン">建築会社向けプラン</a> · <b data-en="Ichijo versions" data-ja="一条工務店版">一条工務店版</b> · <a href="https://boinkyai.github.io/kutchan-house-plan-a/" data-en="Toby's own plans" data-ja="トビアスの自作プラン">トビアスの自作プラン</a></div>
 </div>
 
 <div id="hud"></div>
@@ -120,6 +115,6 @@
 <script type="importmap">
 {"imports":{"three":"./three.module.min.js","three/addons/":"./jsm/"}}
 </script>
-<script type="module" src="app.js?v=24"></script>
+<script type="module" src="app.js?v=25"></script>
 </body>
 </html>

diff --git a/edit.html b/edit.html
@@ -106,6 +106,6 @@
   <div style="margin-top:12px"><button onclick="document.getElementById('help').classList.remove('show')" data-i="close">Close</button></div>
 </div></div>
 
-<script type="module" src="edit.js?v=15"></script>
+<script type="module" src="edit.js?v=16"></script>
 </body>
 </html>
